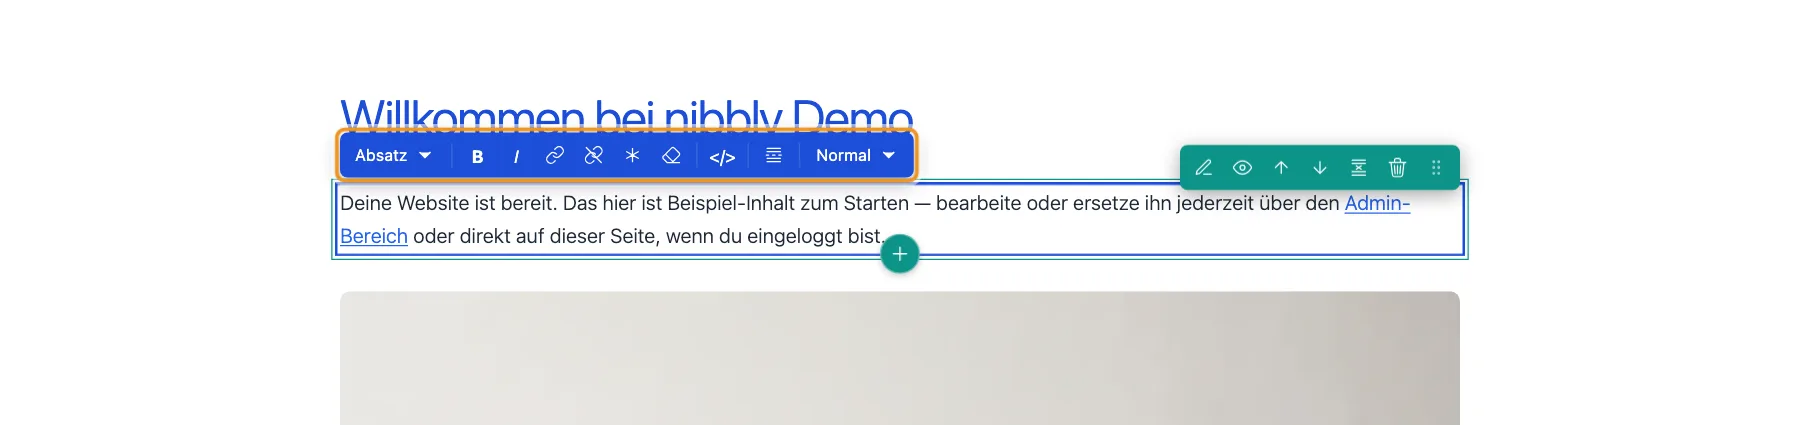
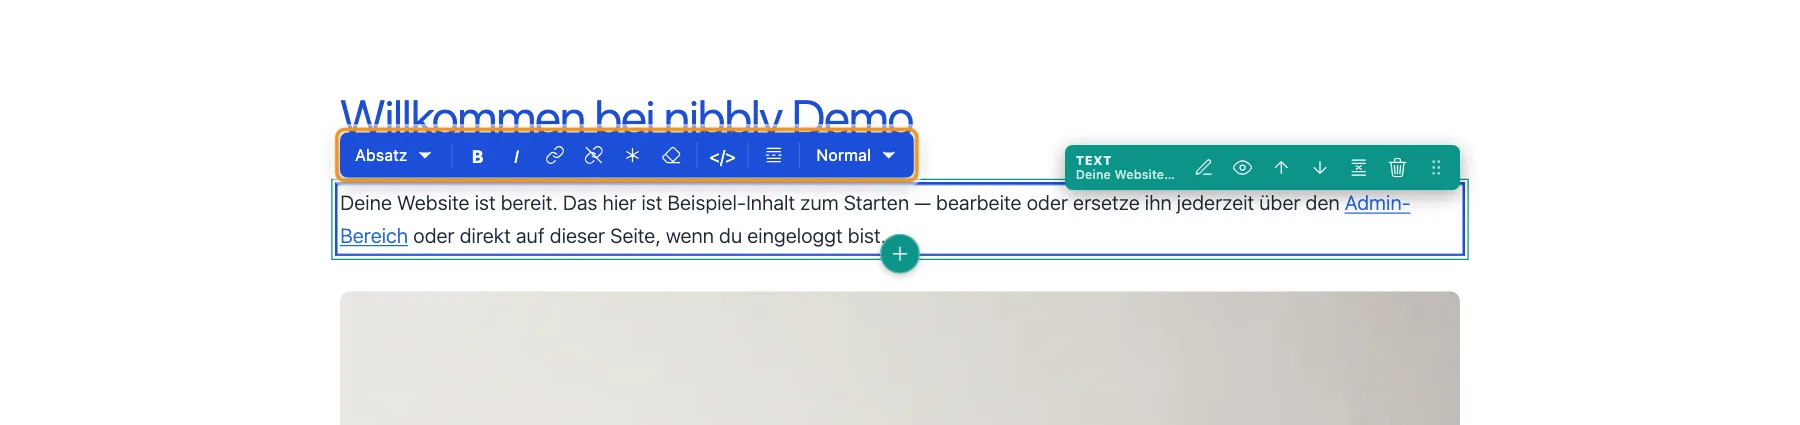
feat(editor): label in every block bar; bar of a floated image block reachable
Every bar of a page section or post block starts with the type name and a
short hint (title or first words of a text, chosen width of an image); the
cover-image bar of a post says "Cover image". The bar keeps its 36 px.

A page section holding only a floated figure has no height, so its bar lay
on the bar of the following text block. Such a section is marked
editable-section-floated and its bar moves to the left edge; the bar of the
hovered section paints over a neighbour's bar that is still fading out.

The browser check reads the labels and the bar height; the handbook caption
of the section bar names the label, and the screenshots edit-mode,
sections and text-toolbar (de, en) show the current bars.

Changed region(s): [[0.5911, 0.3365, 0.8089, 0.4894]]

diff --git a/js/inline-editor.js b/js/inline-editor.js
@@ -2819,6 +2819,37 @@
         return EditorConfig.currentPage;
     }
 
+    // Label at the start of a block bar: the type name, for text and image blocks with a short hint
+    // (title or first words; chosen width). Two bars close together, e.g. a floated image and the text
+    // beside it, are told apart at a glance. Shared by page sections and post blocks.
+    function blockBarLabel(type, data) {
+        const label = document.createElement('span');
+        label.className = 'overlay-label nibbly-editor-bar-label';
+        label.contentEditable = 'false';
+        const typeName = document.createElement('span');
+        typeName.className = 'nibbly-editor-bar-type';
+        typeName.textContent = SectionTypes[type]?.label || type;
+        label.appendChild(typeName);
+        let hint = '';
+        if (data && type === 'text') {
+            hint = String(data.title || '').trim();
+            if (!hint) hint = new DOMParser().parseFromString(String(data.content || ''), 'text/html').body.textContent || '';
+            hint = hint.replace(/\s+/g, ' ').trim();
+            if (hint.length > 15) hint = hint.slice(0, 14).trimEnd() + '…';
+        } else if (data && type === 'image') {
+            const field = (BlockTypes.image?.fields || []).find(f => f.key === 'width');
+            const option = (field?.options || []).find(o => o.value === (data.width || 'full'));
+            hint = String(option?.label || '').replace(/\s*\(.*\)\s*$/, '');
+        }
+        if (hint) {
+            const hintEl = document.createElement('span');
+            hintEl.className = 'nibbly-editor-bar-hint';
+            hintEl.textContent = hint;
+            label.appendChild(hintEl);
+        }
+        return label;
+    }
+
     function keepOverlayOpenWhileCrossing(owner, overlay) {
         let hideTimer = null;
 
@@ -2880,12 +2911,26 @@
                 <button type="button" class="overlay-btn overlay-btn-delete nibbly-editor-control-btn" data-editor-tooltip="${escHtml(t('delete'))}" aria-label="${escHtml(t('delete'))}" data-action="delete">${Icons.delete}</button>
                 <span class="overlay-drag-handle nibbly-editor-drag-handle" data-editor-tooltip="${escHtml(t('drag_reorder'))}" aria-label="${escHtml(t('drag_reorder'))}">${Icons.drag}</span>
             `;
+            overlay.prepend(blockBarLabel(type, sectionData));
             pageBlockPage = contentPage;
             overlay.querySelector('.overlay-btn-delete').before(...pageSectionTools(wrapper, type, contentPage));
             // gallery, divider: no fields, nothing for the dialog
             if (!(BlockTypes[type]?.fields || []).length) overlay.querySelector('.overlay-btn-edit').remove();
             wrapper.appendChild(overlay);
             keepOverlayOpenWhileCrossing(wrapper, overlay);
+
+            // Section holding only a floated figure (image block "half" in running text): the wrapper has no
+            // height, so its bar would sit exactly on the bar of the following text block and be covered by it.
+            // The class moves the bar to the left edge (css .editable-section-floated); checked again on every
+            // hover, since whether the figure floats depends on the viewport width.
+            const markFloated = () => {
+                const block = wrapper.firstElementChild;
+                const floated = !!block && !block.classList.contains('editable-overlay')
+                    && getComputedStyle(block).float !== 'none' && wrapper.offsetHeight < block.offsetHeight;
+                wrapper.classList.toggle('editable-section-floated', floated);
+            };
+            markFloated();
+            wrapper.addEventListener('mouseenter', markFloated);
 
             // Apply hidden state
             if (isHidden) {
@@ -7605,6 +7650,7 @@
         const tools = document.createElement('div');
         tools.className = 'news-block-tools editable-overlay-buttons';
         tools.contentEditable = 'false';
+        tools.appendChild(blockBarLabel(ref.type, newsBlockList(ref.field)[ref.index]));
         // same order as the bar of a page section: edit, hide, arrows, merge and type tools, delete, drag
         if ((BlockTypes[ref.type]?.fields || []).length) {
             tools.append(newsToolButton(Icons.edit, t('edit'), () => editNewsBlockAt(ref.field, ref.index), 'overlay-btn-edit'));
@@ -7999,6 +8045,12 @@
                 const tools = document.createElement('div');
                 tools.className = 'news-block-tools editable-overlay-buttons';
                 tools.contentEditable = 'false';
+                const heroLabel = document.createElement('span');
+                heroLabel.className = 'overlay-label nibbly-editor-bar-label';
+                heroLabel.contentEditable = 'false';
+                heroLabel.innerHTML = '<span class="nibbly-editor-bar-type"></span>';
+                heroLabel.firstChild.textContent = t('news.post_image');
+                tools.appendChild(heroLabel);
                 const current = ['full', 'hidden'].includes(EditorConfig.newsPostData.imageLayout) ? EditorConfig.newsPostData.imageLayout : 'column';
                 [['column', NEWS_GALLERY_COLUMN_ICON], ['full', NEWS_IMAGE_FULL_ICON], ['hidden', Icons.eyeClosed]].forEach(([layout, icon]) => {
                     const button = newsToolButton(icon, t('post_image.layout_' + layout), () => newsStructuralChange(data => { data.imageLayout = layout; }), layout === current ? 'is-active' : '');

diff --git a/tests/visual-editor-check.js b/tests/visual-editor-check.js
@@ -18,10 +18,13 @@ async function until(condition, message) {
     throw Error('Timed out: ' + message);
 }
 
-// Class names of a bar's controls, in order, reduced to what each one is
+// Class names of a bar's controls, in order, reduced to what each one is (the label comes first)
 const barOrder = bar => bar.evaluate(el => [...el.children].map(c =>
-    /overlay-btn-edit/.test(c.className) ? 'edit' : /overlay-btn-hide/.test(c.className) ? 'hide'
-        : /overlay-btn-delete/.test(c.className) ? 'delete' : /drag-handle/.test(c.className) ? 'drag' : 'tool'));
+    /nibbly-editor-bar-label/.test(c.className) ? 'label' : /overlay-btn-edit/.test(c.className) ? 'edit'
+        : /overlay-btn-hide/.test(c.className) ? 'hide' : /overlay-btn-delete/.test(c.className) ? 'delete'
+            : /drag-handle/.test(c.className) ? 'drag' : 'tool'));
+// Type name and hint of a bar's label
+const barLabel = bar => bar.locator('.nibbly-editor-bar-label > span').allTextContents();
 
 async function editMode(page, url) {
     await page.goto(base + url);
@@ -154,11 +157,16 @@ const boxesOverlap = (a, b) => a.x < b.x + b.width && b.x < a.x + a.width && a.y
         assert.strictEqual(await sections.count(), 5);
         const bar = i => sections.nth(i).locator(':scope > .nibbly-editor-section-overlay');
         await sections.nth(0).hover();
-        assert.deepStrictEqual(await barOrder(bar(0)), ['edit', 'hide', 'tool', 'tool', 'tool', 'delete', 'drag']);
+        assert.deepStrictEqual(await barOrder(bar(0)), ['label', 'edit', 'hide', 'tool', 'tool', 'tool', 'delete', 'drag']);
+        assert.deepStrictEqual(await barLabel(bar(0)), ['Text', 'Paragraph numb…'], 'type name and the first words, cut to 15 characters');
+        assert.deepStrictEqual(await barLabel(bar(1)), ['Text', 'Second'], 'a title wins over the content');
         await page.screenshot({ path: shots + '/page-text-bar.png' });
         await sections.nth(2).hover();
-        assert.deepStrictEqual(await barOrder(bar(2)), ['edit', 'hide', 'tool', 'tool', 'tool', 'delete', 'drag'], 'image section');
+        assert.deepStrictEqual(await barOrder(bar(2)), ['label', 'edit', 'hide', 'tool', 'tool', 'tool', 'delete', 'drag'], 'image section');
         assert.strictEqual(await sections.nth(2).locator(':scope > figure[data-news-block="sections.2"]').count(), 1, 'image hook');
+        assert.deepStrictEqual(await barLabel(bar(2)), ['Image', 'Full Width'], 'the chosen width without the bracket note');
+        assert.deepStrictEqual(await barLabel(bar(3)), ['Gallery'], 'no hint for a gallery');
+        assert.strictEqual(await page.evaluate(() => document.querySelector('.nibbly-editor-section-overlay').getBoundingClientRect().height), 36, 'the label does not make the bar taller');
         await page.screenshot({ path: shots + '/page-image-bar.png' });
         await sections.nth(3).hover();
         assert.strictEqual(await bar(3).locator('.overlay-btn-edit').count(), 0, 'gallery has no fields for the dialog');
@@ -298,7 +306,8 @@ const boxesOverlap = (a, b) => a.x < b.x + b.width && b.x < a.x + a.width && a.y
         assert.strictEqual(await blocks.count(), 4);
         const tools = i => blocks.nth(i).locator(':scope > .news-block-tools');
         await blocks.nth(1).hover();
-        assert.deepStrictEqual(await barOrder(tools(1)), ['edit', 'hide', 'tool', 'tool', 'tool', 'delete', 'drag']);
+        assert.deepStrictEqual(await barOrder(tools(1)), ['label', 'edit', 'hide', 'tool', 'tool', 'tool', 'delete', 'drag']);
+        assert.deepStrictEqual(await barLabel(tools(1)), ['Text', 'Beta block'], 'post block label');
         const toolsBox = await tools(1).boundingBox();
         const blockBox = await blocks.nth(1).boundingBox();
         assert.ok(toolsBox.y + toolsBox.height <= blockBox.y + 4, 'post bar sits above the block');

diff --git a/css/inline-editor.css b/css/inline-editor.css
@@ -518,6 +518,55 @@ body.edit-mode-active .editable-overlay:hover {
     pointer-events: auto;
 }
 
+/* The bar of the section under the pointer wins over a neighbour's bar that is still fading out
+   (both sit in the page's stacking context, so a later sibling would otherwise paint on top) */
+body.edit-mode-active .editable-section:hover > .editable-overlay,
+body.edit-mode-active .editable-section.is-overlay-active > .editable-overlay {
+    z-index: 12;
+}
+
+/* Label at the start of a block bar (js: blockBarLabel): type name in small caps, below it the hint in
+   normal case, both left-aligned. Two lines fit the height of the buttons, so the bar does not grow;
+   hardened against site CSS like the bar itself. */
+body.edit-mode-active .nibbly-editor-bar-label {
+    display: inline-flex !important;
+    flex-direction: column;
+    justify-content: center;
+    align-items: flex-start;
+    max-width: 160px;
+    height: 28px;
+    padding: 0 7px 0 5px !important;
+    line-height: 1.15 !important;
+    font-size: 10px !important;
+    font-weight: 700 !important;
+    letter-spacing: 0.05em !important;
+    text-transform: uppercase !important;
+    white-space: nowrap;
+    overflow: hidden;
+    color: rgba(255, 255, 255, 0.9) !important;
+    cursor: default;
+    user-select: none;
+}
+
+body.edit-mode-active .nibbly-editor-bar-hint {
+    max-width: 100%;
+    font-weight: 500 !important;
+    letter-spacing: 0 !important;
+    text-transform: none !important;
+    opacity: 0.85;
+    overflow: hidden;
+    text-overflow: ellipsis;
+}
+
+/* Section holding only a floated figure (image block "half" in running text, js: markFloated): its wrapper
+   has no height, so the bar would lie exactly on the bar of the following text block. At the left edge it
+   stays apart from that bar and reachable. */
+body.edit-mode-active .editable-section-floated > .editable-overlay {
+    right: auto;
+    left: 0;
+    border-radius: 4px 4px 4px 0;
+}
+
 /* Button-Overlay Variante */
 .editable-overlay-buttons {
     display: flex;

diff --git a/includes/handbook/chapters/edit-mode.de.php b/includes/handbook/chapters/edit-mode.de.php
@@ -27,7 +27,7 @@
   <div><dt><?php echo $hb->icon('grip', 'Ziehen zum Umsortieren'); ?> Verschieben</dt><dd>Am Griff ziehen, um den Abschnitt weiter nach oben oder unten zu setzen.</dd></div>
   <div><dt><?php echo $hb->icon('plus', 'Block hinzufügen'); ?> Block hinzufügen</dt><dd>Das Plus unter einem Abschnitt fügt an dieser Stelle einen neuen Block ein. Du wählst den Typ aus einer Liste mit Suchfeld, etwa Text, Überschrift, Bild, Liste, Karte oder YouTube.</dd></div>
 </dl>
-<?php echo $hb->shot('sections.webp', 'Ein Bildabschnitt im Bearbeitungsmodus mit seiner Werkzeugleiste oben rechts', '<b>Werkzeugleiste eines Abschnitts.</b> Bearbeiten, Ausblenden, Pfeile, Verbinden oder Bildwerkzeuge, Löschen und der Griff zum Verschieben; Beitragsblöcke haben dieselbe Leiste.'); ?>
+<?php echo $hb->shot('sections.webp', 'Ein Bildabschnitt im Bearbeitungsmodus mit seiner Werkzeugleiste oben rechts', '<b>Werkzeugleiste eines Abschnitts.</b> Am Anfang der Leiste stehen der Typname und ein Kurzhinweis (bei Text der Titel oder die ersten Wörter, bei Bildern die Breite), dann Bearbeiten, Ausblenden, Pfeile, Verbinden oder Bildwerkzeuge, Löschen und der Griff zum Verschieben; Beitragsblöcke haben dieselbe Leiste.'); ?>
 <?php echo $hb->note('Sofort gespeichert', 'Wenn du einen Abschnitt oder Listeneintrag hinzufügst oder löschst, einen Textblock teilst, verbindest oder seinen Stil wechselst oder die Bild- und Galeriewerkzeuge nutzt, speichert nibbly sofort, zusammen mit allen anderen offenen Änderungen, und lädt die Seite neu. Alles andere, auch Verschieben und Ausblenden, wartet auf Speichern.'); ?>
 
 <h3>Inhaltseditor</h3>

diff --git a/includes/handbook/chapters/edit-mode.en.php b/includes/handbook/chapters/edit-mode.en.php
@@ -27,7 +27,7 @@
   <div><dt><?php echo $hb->icon('grip', 'Drag to reorder'); ?> Move</dt><dd>Drag the handle to move the section up or down.</dd></div>
   <div><dt><?php echo $hb->icon('plus', 'Add block'); ?> Add block</dt><dd>The plus below a section inserts a new block at that point. You pick the type from a list with a search field, such as text, heading, image, list, card or YouTube.</dd></div>
 </dl>
-<?php echo $hb->shot('sections.webp', 'An image section in edit mode with its toolbar at the top right', '<b>A section’s toolbar.</b> Edit, Hide, arrows, Merge or image tools, Delete and the handle for moving; post blocks have the same bar.'); ?>
+<?php echo $hb->shot('sections.webp', 'An image section in edit mode with its toolbar at the top right', '<b>A section’s toolbar.</b> The bar starts with the type name and a short hint (the title or first words of a text, the width of an image), then Edit, Hide, arrows, Merge or image tools, Delete and the handle for moving; post blocks have the same bar.'); ?>
 <?php echo $hb->note('Saved at once', 'When you add or delete a section or list item, split or merge a text block or change its style, or use the image and gallery tools, nibbly saves immediately, together with all your other open changes, and reloads the page. Everything else, including moving and hiding, waits for Save.'); ?>
 
 <h3>Content Editor</h3>

diff --git a/CHANGELOG.md b/CHANGELOG.md
@@ -9,6 +9,24 @@ Git milestones and the gaps in publication records.
 
 ## [Unreleased]
 
+### Changed
+
+- **Label in every block bar of the Visual Editor.** The bar of a page section or post block starts
+  with the type name in small capitals and, below it, a short hint: the title or first words of a
+  text block, the chosen width of an image block. Two bars close together, such as a floated image
+  and the text beside it, are told apart at a glance; the bar keeps its height. The layout bar of a
+  post's cover image says "Cover image" (`blockBarLabel()` in `js/inline-editor.js`,
+  `.nibbly-editor-bar-label` in `css/inline-editor.css`). The browser check reads the labels, and
+  the handbook's section-bar screenshot and caption show them.
+
+### Fixed
+
+- **Bar of a floated image block.** A page section holding only a floated figure (an image block
+  "half" in running text) has no height, so its bar lay exactly on the bar of the following text
+  block and was covered by it. The editor marks such a section (`editable-section-floated`) and
+  moves its bar to the left edge; the bar of the section under the pointer now also paints over a
+  neighbour's bar that is still fading out.
+
 ## [2.8.2] — 2026-11-07
 
 ### Changed
